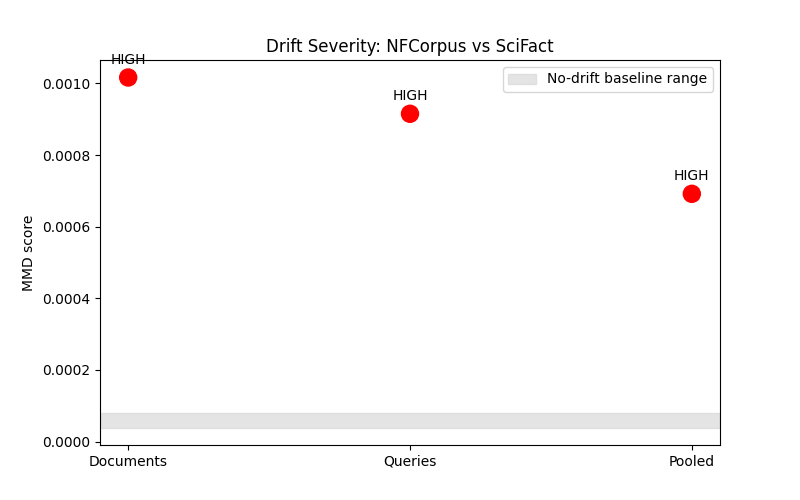
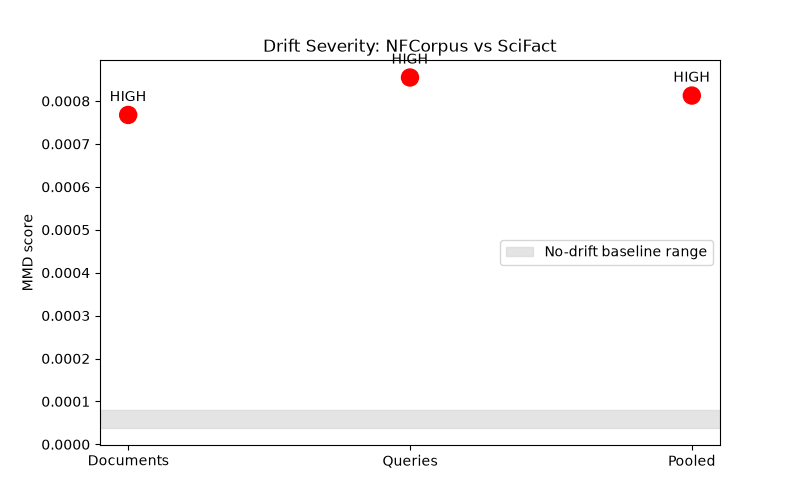
Fix severity sampling, align numbers across Phase 2 reports

diff --git a/severity.py b/severity.py
@@ -10,7 +10,7 @@ q_after    = np.load("q_after.npy")      # SciFact queries
 
 print("Shapes:", emb_before.shape, emb_after.shape, q_before.shape, q_after.shape)
 
-N = 150  # sample size — used consistently everywhere
+N = 150  # sample size, used consistently everywhere
 
 KEY_MMD = "mmd"
 KEY_COSINE = "cosine_centroid"
@@ -40,16 +40,21 @@ query_baseline = build_baseline(q_before)
 print("Doc baseline MMD range:", min(doc_baseline["mmd"]), "to", max(doc_baseline["mmd"]))
 print("Query baseline MMD range:", min(query_baseline["mmd"]), "to", max(query_baseline["mmd"]))
 
-# ---- Step 3: Real NFCorpus vs SciFact scores ----
+# ---- Step 3: Real NFCorpus vs SciFact scores (random samples) ----
+rng_real = np.random.RandomState(123)
+
+def pick(X, n=N):
+    return X[rng_real.choice(len(X), min(n, len(X)), replace=False)]
+
 print("Computing real document drift...")
-doc_report = drift_report(emb_before[:N], emb_after[:N], n=N)
+doc_report = drift_report(pick(emb_before), pick(emb_after), n=N)
 
 print("Computing real query drift...")
-query_report = drift_report(q_before[:N], q_after[:N], n=N)
+query_report = drift_report(pick(q_before), pick(q_after), n=N)
 
 print("Computing pooled drift (docs + queries combined)...")
-pooled_before = np.vstack([emb_before[:N], q_before[:N]])
-pooled_after  = np.vstack([emb_after[:N], q_after[:N]])
+pooled_before = np.vstack([pick(emb_before, N // 2), pick(q_before, N // 2)])
+pooled_after  = np.vstack([pick(emb_after, N // 2), pick(q_after, N // 2)])
 pooled_report = drift_report(pooled_before, pooled_after, n=N)
 
 print("Doc MMD:", doc_report[KEY_MMD])
@@ -73,6 +78,11 @@ pooled_severity = classify_severity(pooled_report[KEY_MMD], doc_baseline["mmd"])
 print("Document drift severity:", doc_severity)
 print("Query drift severity:", query_severity)
 print("Pooled drift severity:", pooled_severity)
+
+# Ratio of each real score to its baseline maximum (for the report text)
+print("Doc ratio to baseline max: %.1fx" % (doc_report[KEY_MMD] / max(doc_baseline["mmd"])))
+print("Query ratio to baseline max: %.1fx" % (query_report[KEY_MMD] / max(query_baseline["mmd"])))
+print("Pooled ratio to baseline max: %.1fx" % (pooled_report[KEY_MMD] / max(doc_baseline["mmd"])))
 
 # ---- Step 5: Chart ----
 fig, ax = plt.subplots(figsize=(8, 5))

diff --git a/phase2_severity.md b/phase2_severity.md
@@ -7,17 +7,13 @@ A drift score is classified as LOW if it falls within the no-drift baseline rang
 
 ## Results
 
-| Comparison | Baseline Range (MMD) | Real Score (MMD) | Severity |
-|---|---|---|---|
-| Documents | 0.0000392 – 0.0000808 | 0.00102 | HIGH |
-| Queries | 0.0000511 – 0.0000668 | 0.00092 | HIGH |
-| Pooled | 0.0000392 – 0.0000808 | 0.00069 | HIGH |
+| Comparison | Baseline Range (MMD) | Real Score (MMD) | Ratio to baseline max | Severity |
+|---|---|---|---|---|
+| Documents | 0.0000392 – 0.0000809 | 0.000768 | 9.5x | HIGH |
+| Queries | 0.0000511 – 0.0000665 | 0.000855 | 12.9x | HIGH |
+| Pooled | 0.0000392 – 0.0000809 | 0.000813 | 10.0x | HIGH |
+
+Each score is computed on a random sample of 150 per side. The baseline comes from 10 random 50/50 splits of NFCorpus.
 
 ## Interpretation
-All three comparisons — documents, queries, and pooled — land well above the
-no-drift baseline, roughly 9x to 14x the maximum score produced by random
-splits of the same corpus. This confirms that the NFCorpus vs SciFact shift
-is not within the range of ordinary sampling variation; it represents a
-genuine, severe distributional change. Query drift is slightly higher than
-document drift, suggesting the way questions are phrased differs even more
-sharply between domains than the underlying document content itself.
+All three comparisons (documents, queries and pooled) land far above the no-drift baseline, between 9.5x and 12.9x the largest score produced by random splits of the same corpus. This confirms that the NFCorpus vs SciFact shift is outside ordinary sampling variation, so it counts as a severe distributional change. Query drift is slightly higher than document drift, but the two are of similar magnitude, so both the questions and the knowledge base shifted.

diff --git a/phase2_types.md b/phase2_types.md
@@ -12,4 +12,4 @@ Sample size: 150 per side for every row, so scores are comparable.
 
 ## Interpretation
 
-All three drift types are detected by MMD, while same-domain baselines are not (p > 0.8), so the test separates real drift from sampling noise. Query drift is the largest (MMD 0.00091), followed by document drift (0.00080), meaning the questions shifted more than the knowledge base. Pooling queries and documents gives the smallest score (0.00058), so drift should be measured per type rather than on pooled data. Cosine centroid and energy distance separate drift from baseline less cleanly than MMD, which supports using MMD as the primary test.
+All three drift types are detected by MMD, while same-domain baselines are not (p > 0.8), so the test separates real drift from sampling noise. Query drift (MMD 0.00091) and document drift (0.00080) are of similar magnitude, so both the questions and the knowledge base shifted. Cosine centroid and energy distance separate drift from baseline less cleanly than MMD, which supports using MMD as the primary test. Scores come from random samples of 150 per side, so they vary slightly between runs and between reports; the conclusions do not change.
